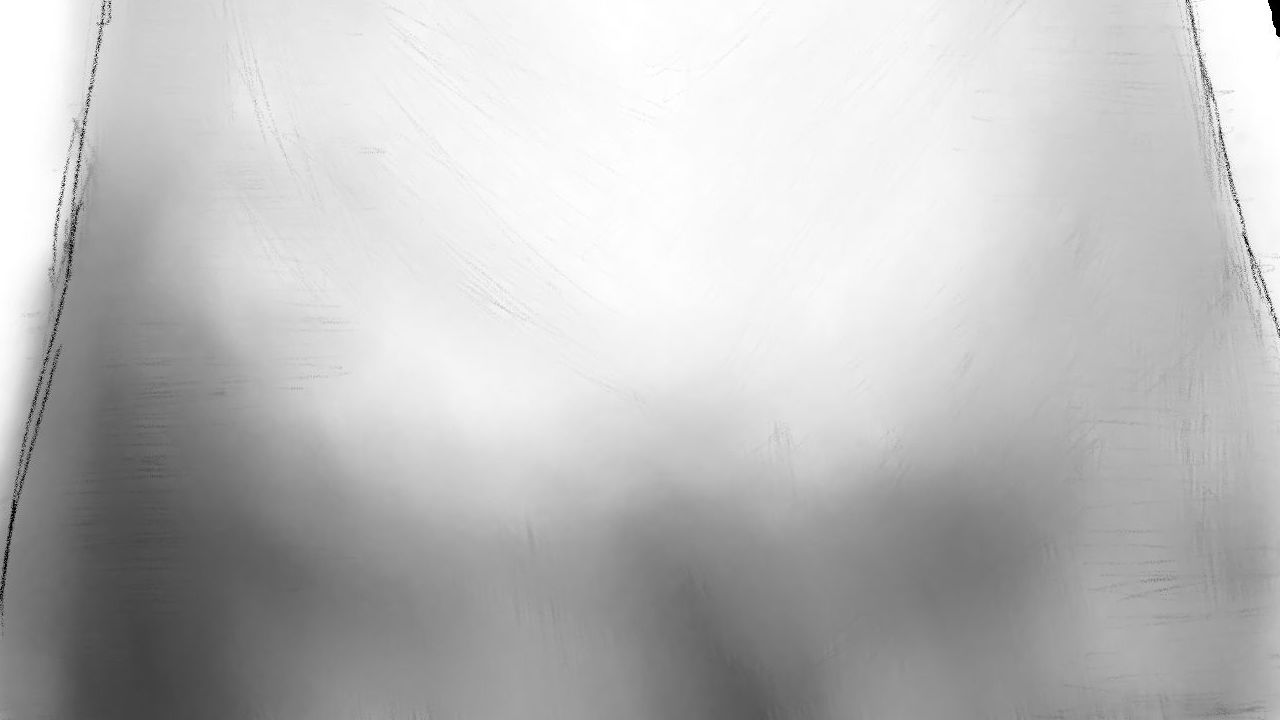
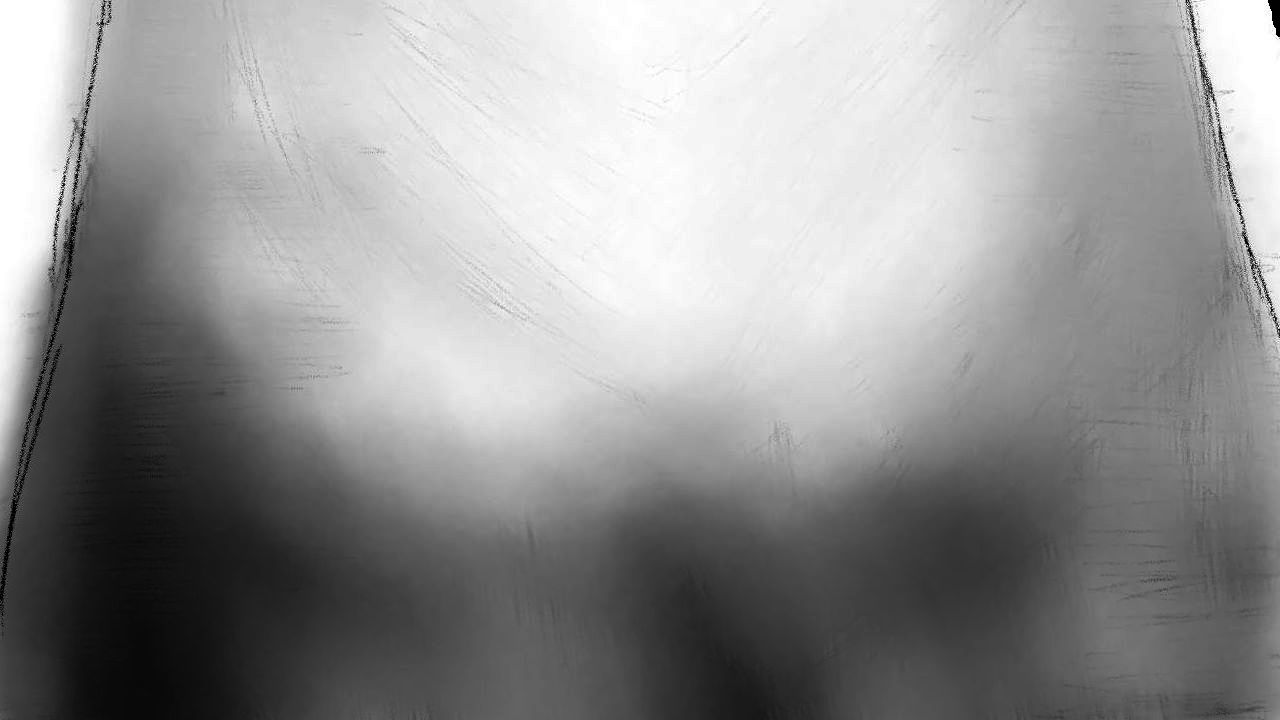
P3: Adjusting the color for mountain
- Adjusting the color of the mountain to be darker
- remove the noStroke for having a white stroke

diff --git a/projects/project3/js/script.js b/projects/project3/js/script.js
@@ -129,6 +129,28 @@ function setup() {
     snowFall.push(snowFallPlus);
   }
 
+  // For loop for snow
+  //
+  // To make the number of snows that will fall
+  for (let fT = 0; fT < snowNumb; fT++) {
+    // random()
+    //
+    // Making the snow spawn on top of the screen
+    let snowX = random(0, width);
+    let snowY = random(0, height);
+
+
+    // snowFallPlus
+    //
+    // New snow that will fall
+    snowFallPlus = new Snow(snowX, snowY, color(230, 255, 255), 2);
+
+    // push()
+    //
+    // to make array objects for snow
+    snowFall.push(snowFallPlus);
+  }
+
   // Avalanche Setup
   //
   // This part will show a falling avalanche
@@ -437,6 +459,28 @@ function NextlevelSetup() {
     snowFall.push(snowFallPlus);
   }
 
+  // For loop for snow
+  //
+  // To make the number of snows that will fall
+  for (let fT2 = 0; fT2 < snowNumb; fT2++) {
+    // random()
+    //
+    // Making the snow spawn on top of the screen
+    let snowX = random(0, width);
+    let snowY = random(0, height);
+
+
+    // snowFallPlus
+    //
+    // New snow that will fall
+    snowFallPlus = new Snow(snowX, snowY, color(230, 255, 255), 2);
+
+    // push()
+    //
+    // to make array objects for snow
+    snowFall.push(snowFallPlus);
+  }
+
   // Clearing the amount of avalanche from the previous level
   avalanche = [];
 
@@ -583,6 +627,17 @@ function secondLevel() {
     snowFall[f2].handleWrapping();
   }
 
+  // snow
+  //
+  // for loop for snow
+  for (let fT2 = 0; fT2 < snowFall.length; fT2++) {
+    snowFall[fT2].display();
+    snowFall[fT2].gravity();
+    snowFall[fT2].handleWrapping();
+    snowFall[fT2].move();
+  }
+
+
 
   // Climber.handleWrapping
   //
@@ -666,6 +721,28 @@ function thirdLevelSetup() {
     //
     // New snow that will fall
     snowFallPlus = new Snow(snowX, snowY, color(230, 255, 255), 5);
+
+    // push()
+    //
+    // to make array objects for snow
+    snowFall.push(snowFallPlus);
+  }
+
+  // For loop for snow
+  //
+  // To make the number of snows that will fall
+  for (let fT3 = 0; fT3 < snowNumb; fT3++) {
+    // random()
+    //
+    // Making the snow spawn on top of the screen
+    let snowX = random(0, width);
+    let snowY = random(0, height);
+
+
+    // snowFallPlus
+    //
+    // New snow that will fall
+    snowFallPlus = new Snow(snowX, snowY, color(230, 255, 255), 2);
 
     // push()
     //
@@ -820,6 +897,16 @@ function thirdLevel() {
     snowFall[f3].move();
     snowFall[f3].gravity();
     snowFall[f3].handleWrapping();
+  }
+
+  // snow
+  //
+  // for loop for snow
+  for (let fT3 = 0; fT3 < snowFall.length; fT3++) {
+    snowFall[fT3].display();
+    snowFall[fT3].move();
+    snowFall[fT3].gravity();
+    snowFall[fT3].handleWrapping();
   }
 
 

diff --git a/projects/project3/js/Snow.js b/projects/project3/js/Snow.js
@@ -73,7 +73,7 @@ class Snow {
   // Draw a white circle
   display() {
     push();
-    noStroke();
+    stroke(255);
     fill(this.fillColor);
     ellipseMode(CENTER);
     ellipse(this.x, this.y, this.radius * 2);
